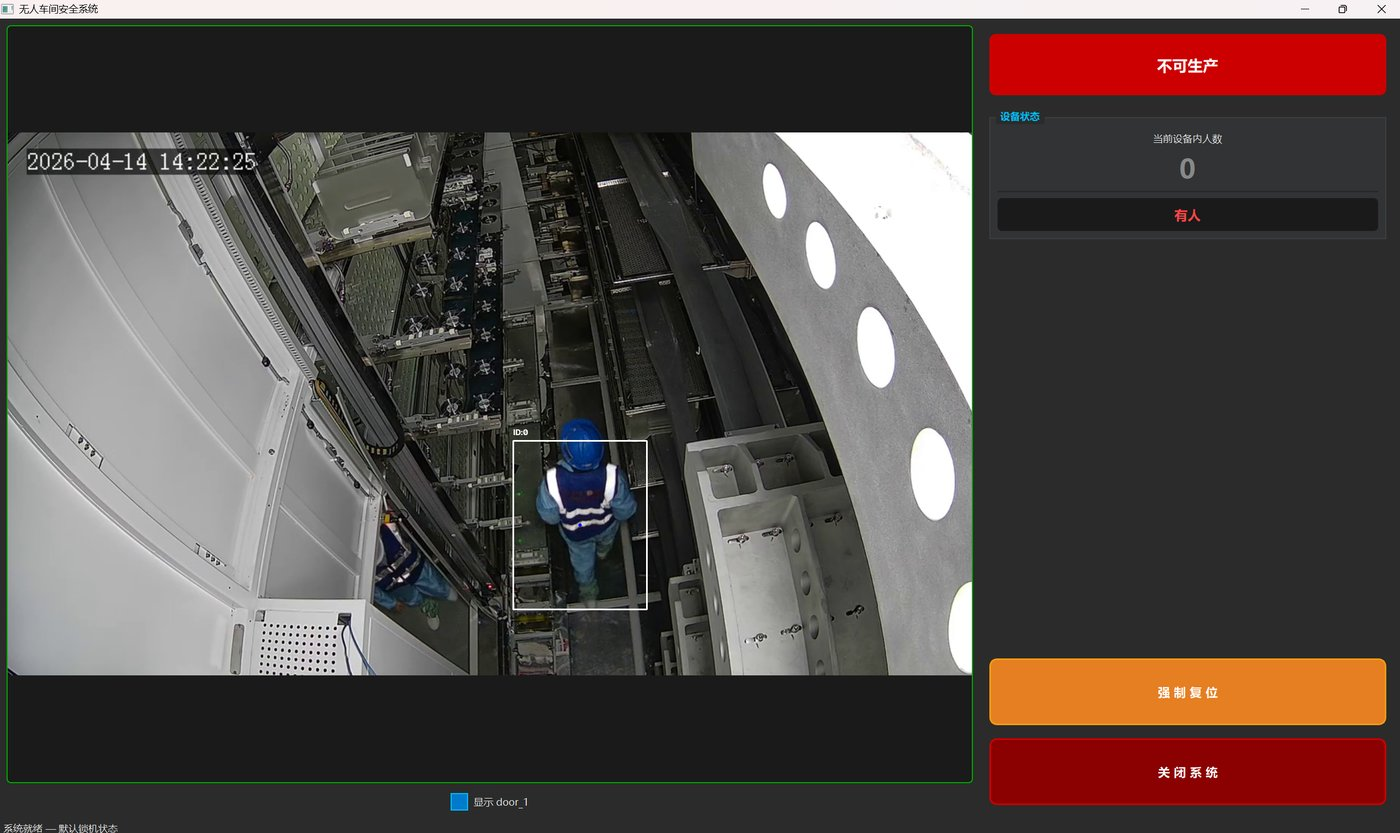
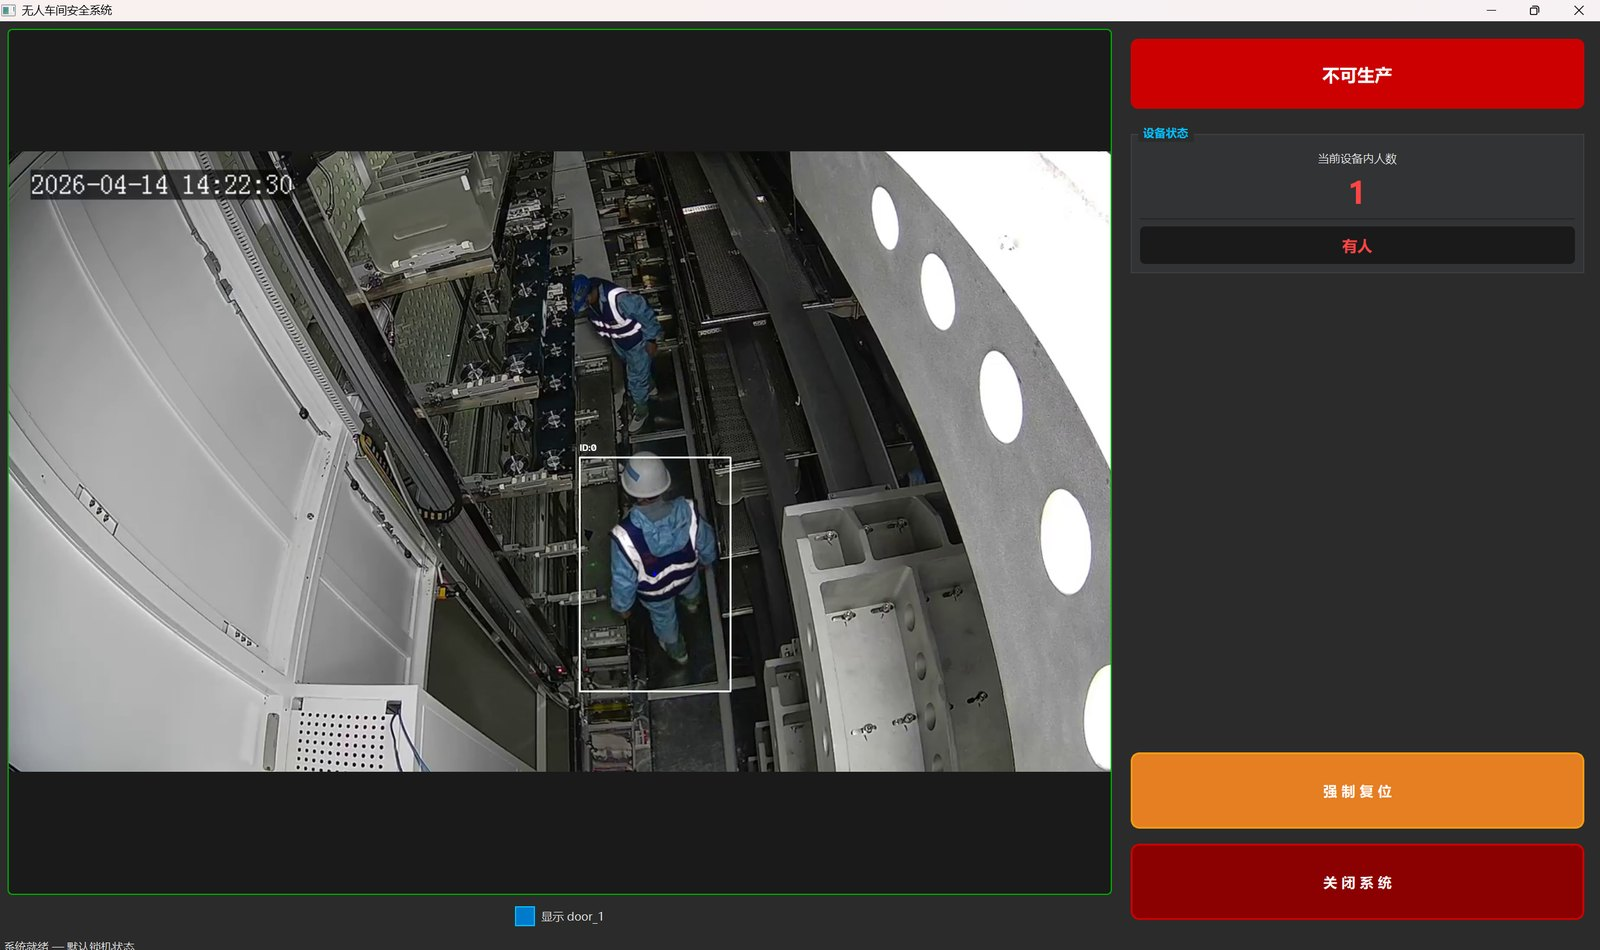
site: replace safety live screenshot with ID-tracking capture

diff --git a/index.html b/index.html
@@ -348,7 +348,7 @@
           </figure>
           <div class="ui-row">
             <figure class="ui-thumb">
-              <img src="assets/projects/safety-live-enter.jpg" alt="人员进入设备区：ID 跟踪与 IN 区判定"  />
+              <img src="assets/projects/safety-live-enter.jpg" alt="人员进入设备区：画面检出人员并给出 ID，右侧显示当前设备内人数 1、状态有人、系统判为不可生产"  />
               <figcaption>人员进入 · ID 跟踪</figcaption>
             </figure>
             <figure class="ui-thumb">
